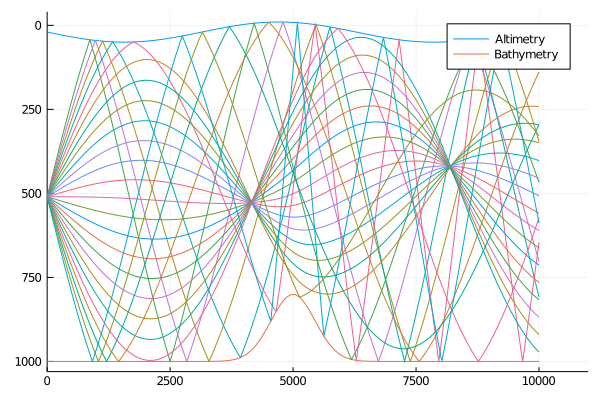
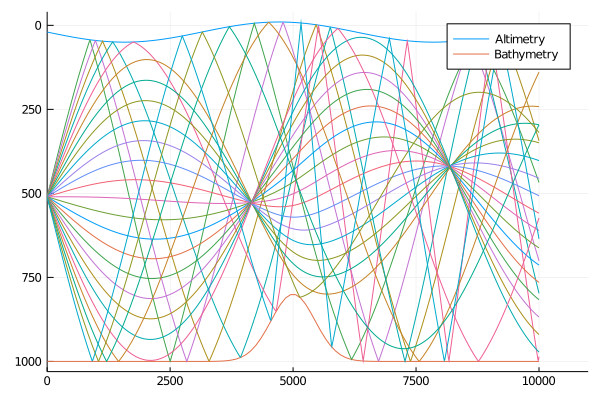
Fixed reflection bug and added ray trace eg

Changed region(s): [[0.45, 0.06, 0.9, 0.9], [0.66, 0.81, 0.69, 0.9]]

diff --git a/README.md b/README.md
@@ -24,6 +24,10 @@ This first example shows a Gaussian bathymetry and sinusoidal altimetry. The sou
 
 I had some rays start at the critical angle which would yield turning points at the boundaries, but that hasn't been demonstrated in the plot.
 
+For the scenario of a parabolic boundary with the source located at the focus of the parabola, the reflected rays correctly emerge horizontally.
+
+![](img/RayTrace_ParabolicBoundary.png)
+
 I still need to perform a few more tests to see if this ray-tracing implementation is "valid" or accurate.
 
 ## Receiver Operating Characteristic Curves
